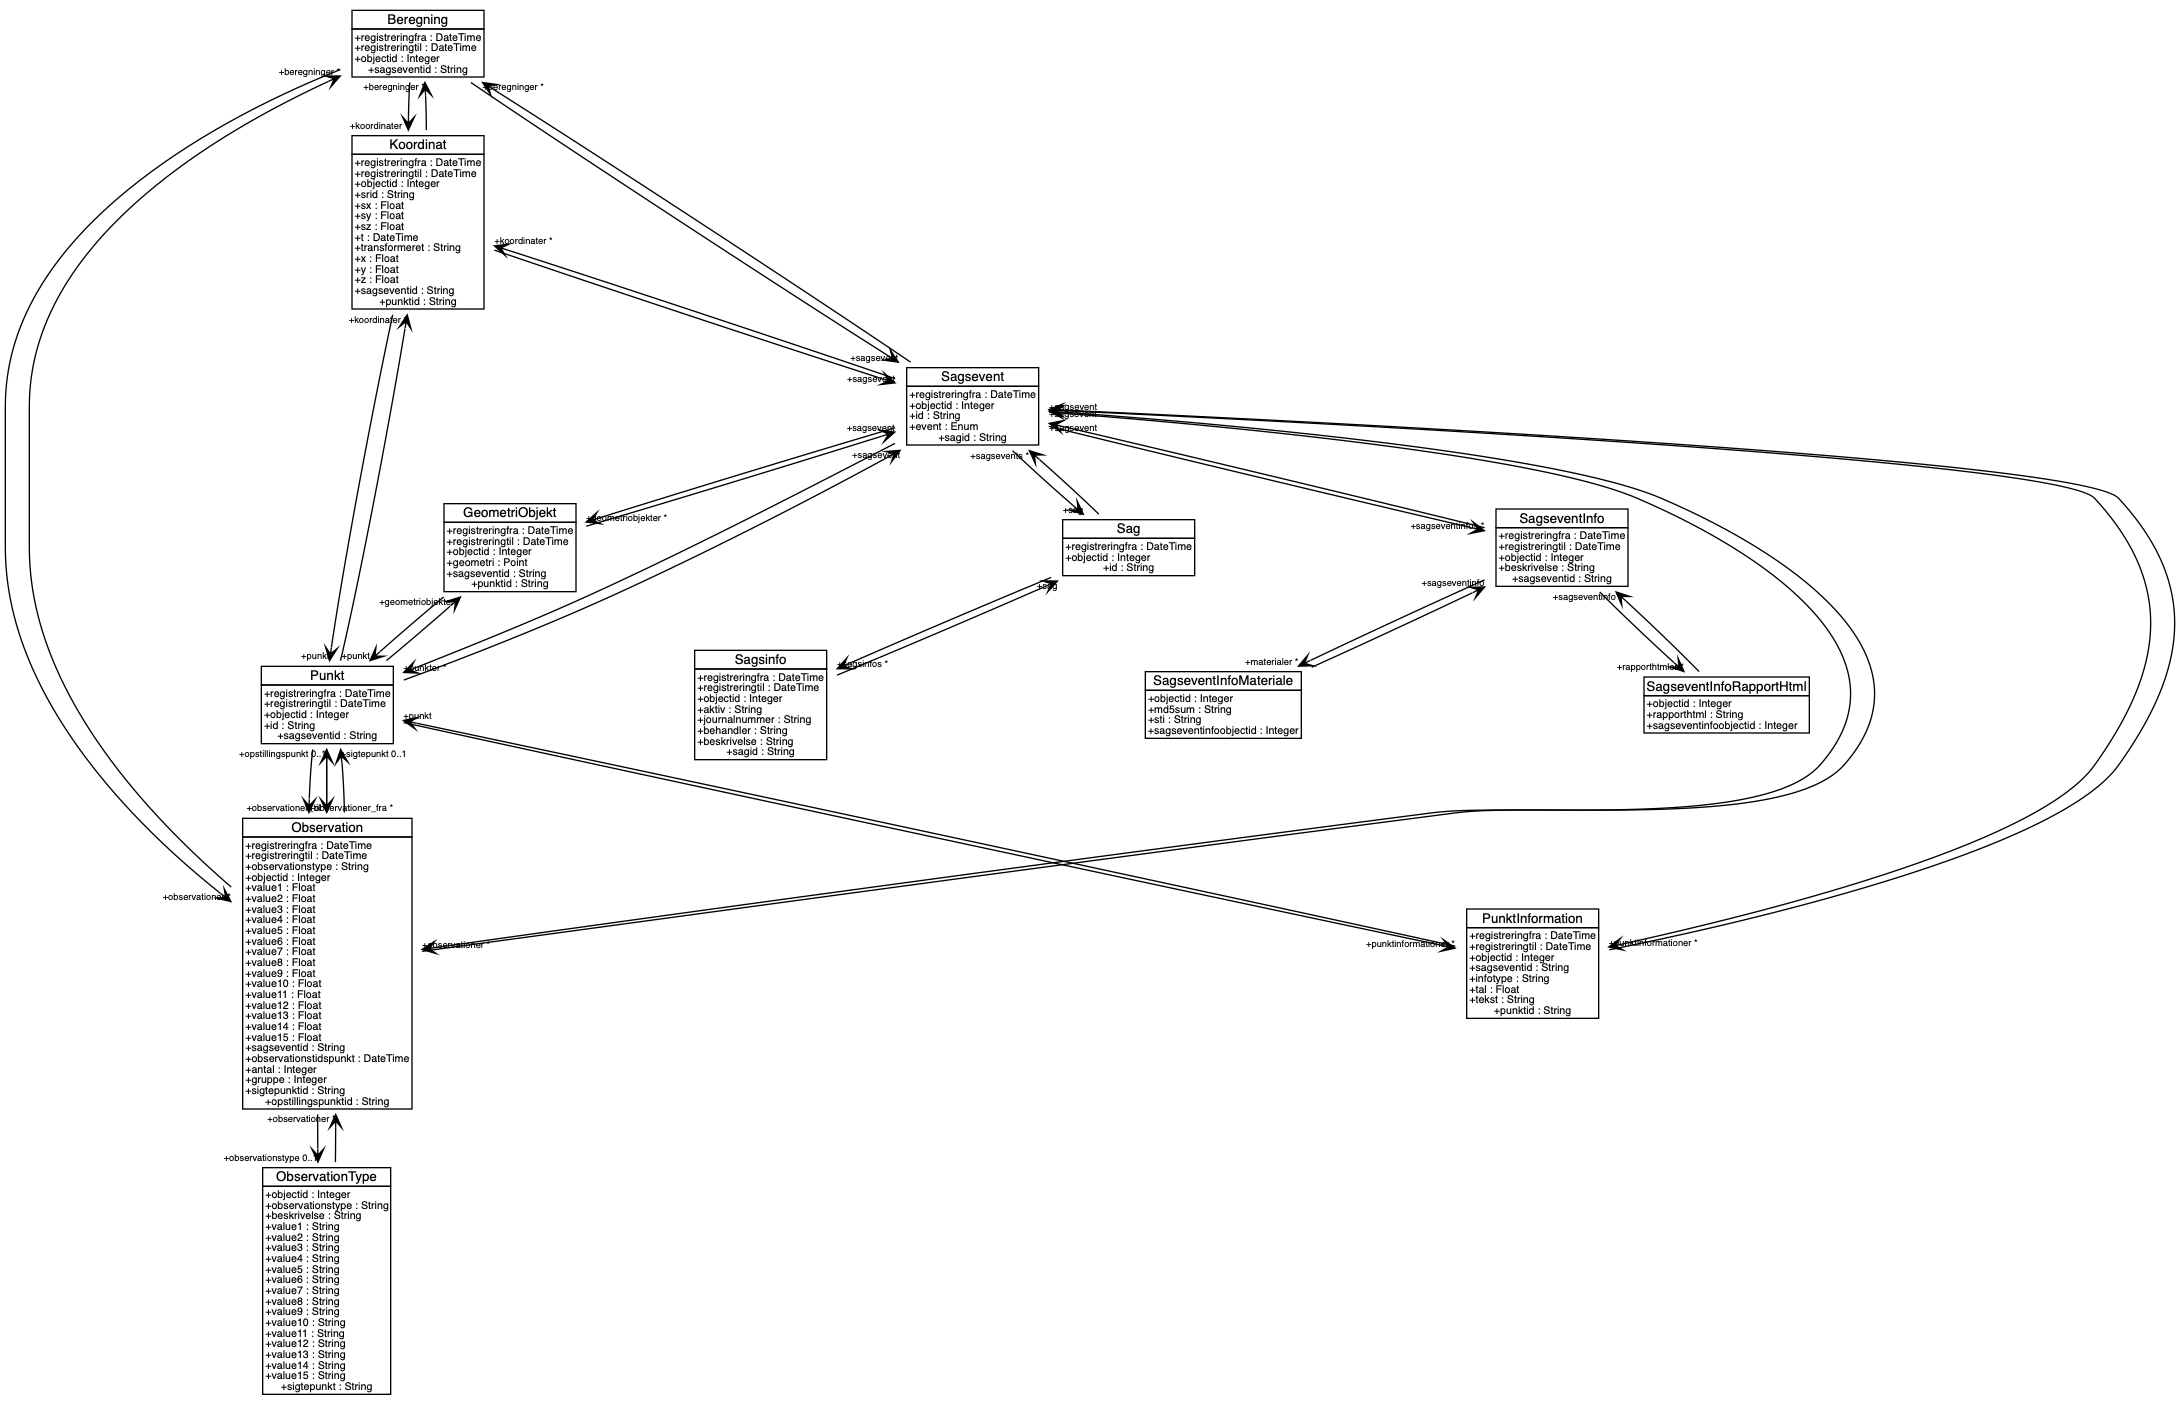
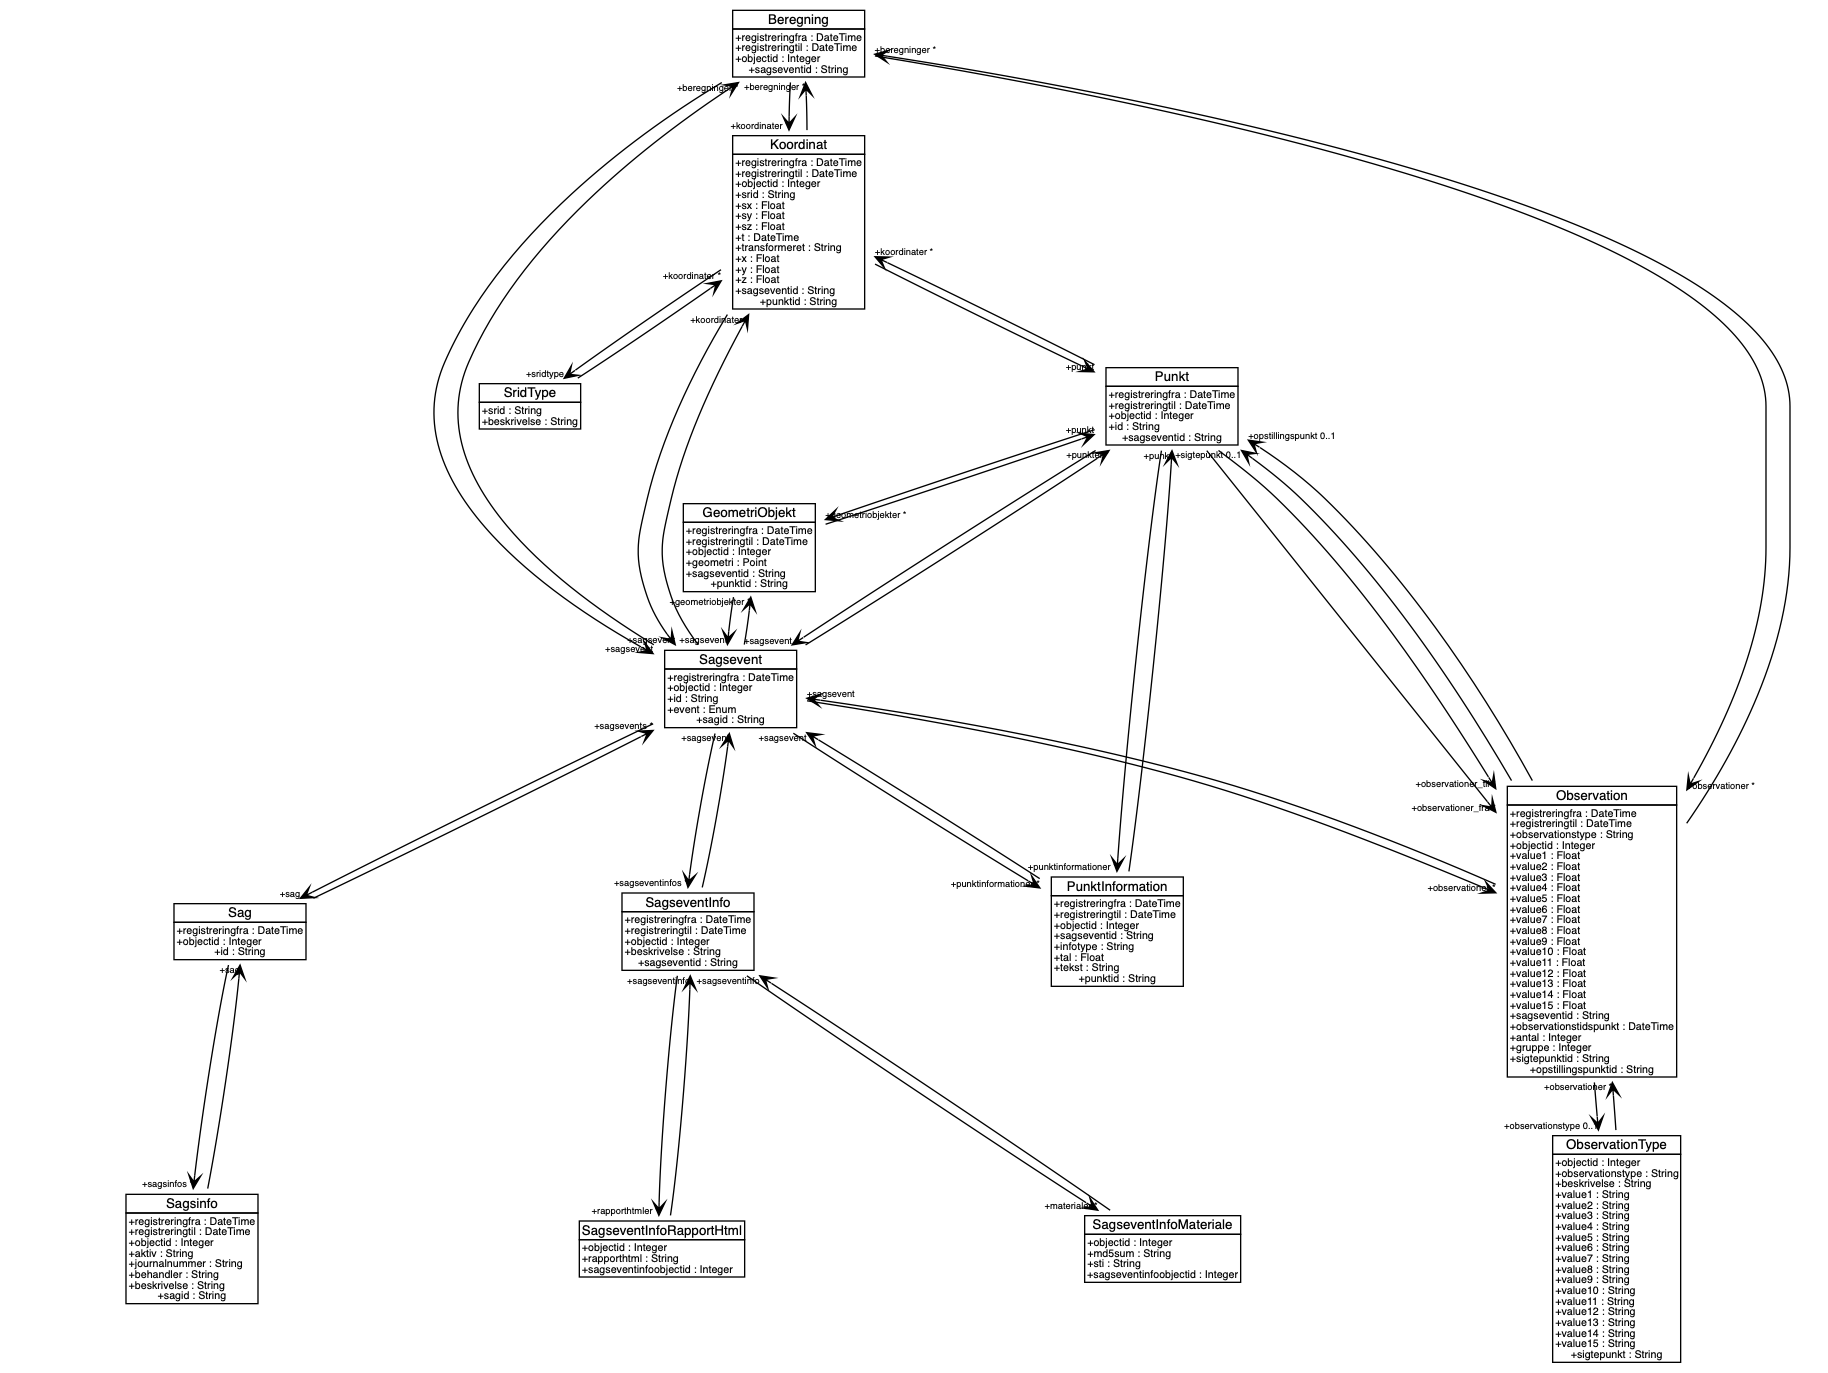
Create SridType

diff --git a/test/test_beregning.py b/test/test_beregning.py
@@ -1,9 +1,17 @@
 import datetime
 from fireapi import FireDb
-from fireapi.model import Koordinat, Punkt, Observation, Beregning, Sagsevent, Sag
+from fireapi.model import (
+    Koordinat,
+    Punkt,
+    Observation,
+    Beregning,
+    Sagsevent,
+    Sag,
+    SridType,
+)
 
 
-def test_indset_beregning(firedb: FireDb, sag: Sag, punkt: Punkt):
+def test_indset_beregning(firedb: FireDb, sag: Sag, punkt: Punkt, sridtype: SridType):
     observation = Observation(
         antal=0,
         observationstypeid="geometrisk_koteforskel",
@@ -22,13 +30,15 @@ def test_indset_beregning(firedb: FireDb, sag: Sag, punkt: Punkt):
     firedb.indset_observation(Sagsevent(sag=sag), observation)
     beregning = Beregning()
     beregning.observationer.append(observation)
-    koordinat = Koordinat(srid=-1, transformeret="false", punkt=punkt)
+    koordinat = Koordinat(sridtype=sridtype, transformeret="false", punkt=punkt)
     beregning.koordinater.append(koordinat)
     firedb.indset_beregning(Sagsevent(sag=sag), beregning)
 
+    assert koordinat.objectid is not None
+
 
 def test_indset_beregning_invalidates_existing_koordinat(
-    firedb: FireDb, sag: Sag, punkt: Punkt
+    firedb: FireDb, sag: Sag, punkt: Punkt, sridtype: SridType
 ):
     observation = Observation(
         antal=0,
@@ -54,9 +64,10 @@ def test_indset_beregning_invalidates_existing_koordinat(
     # new beregning of the same observation with a new koordinat
     beregning2 = Beregning()
     beregning2.observationer.append(observation)
-    koordinat2 = Koordinat(srid="-1", transformeret="false", punkt=punkt)
+    koordinat2 = Koordinat(srid=sridtype.srid, transformeret="false", punkt=punkt)
     beregning2.koordinater.append(koordinat2)
     firedb.indset_beregning(Sagsevent(sag=sag), beregning2)
 
     assert len(punkt.koordinater) == 2
     assert len([k for k in punkt.koordinater if k.registreringtil is None]) == 1
+    assert koordinat2.sridtype is not None

diff --git a/fireapi/model/punkttyper.py b/fireapi/model/punkttyper.py
@@ -15,6 +15,7 @@ __all__ = [
     "ObservationType",
     "Observation",
     "PunktInformation",
+    "SridType",
 ]
 
 
@@ -89,8 +90,8 @@ class PunktInformationType(DeclarativeBase):
 
 class Koordinat(FikspunktregisterObjekt):
     __tablename__ = "koordinat"
-    srid = Column(String, nullable=False)
-    # TODO: srid is foreign key constrained
+    srid = Column(String, ForeignKey("sridtype.srid"), nullable=False)
+    sridtype = relationship("SridType", back_populates="koordinater")
     sx = Column(Float)
     sy = Column(Float)
     sz = Column(Float)
@@ -192,3 +193,10 @@ class Observation(FikspunktregisterObjekt):
     beregninger = relationship(
         "Beregning", secondary=beregning_observation, back_populates="observationer"
     )
+
+
+class SridType(DeclarativeBase):
+    __tablename__ = "sridtype"
+    srid = Column(String(36), nullable=False, primary_key=True)
+    beskrivelse = Column(String(4000))
+    koordinater = relationship("Koordinat", back_populates="sridtype")

diff --git a/fireapi/firedb.py b/fireapi/firedb.py
@@ -16,6 +16,7 @@ from fireapi.model import (
     Beregning,
     Geometry,
     EventType,
+    SridType,
 )
 
 
@@ -143,6 +144,9 @@ class FireDb(object):
             )
             .all()
         )
+
+    def hent_alle_sridtyper(self):
+        return self.session.query(SridType).all()
 
     # endregion
 
@@ -282,7 +286,10 @@ class FireDb(object):
             [
                 k
                 for k in newkoordinat.punkt.koordinater
-                if str(k.srid) == str(newkoordinat.srid)
+                if (
+                    str(k.srid) == str(newkoordinat.srid)
+                    or k.sridtype is newkoordinat.sridtype
+                )
                 and k.registreringtil is None
                 and k is not newkoordinat
             ]

diff --git a/test/conftest.py b/test/conftest.py
@@ -159,3 +159,8 @@ def beregning(firedb, sagsevent, observationer):
     b0 = Beregning(sagsevent=sagsevent, observationer=observationer)
     firedb.session.add(b0)
     return b0
+
+
+@pytest.fixture()
+def sridtype(firedb):
+    return firedb.hent_alle_sridtyper()[0]
